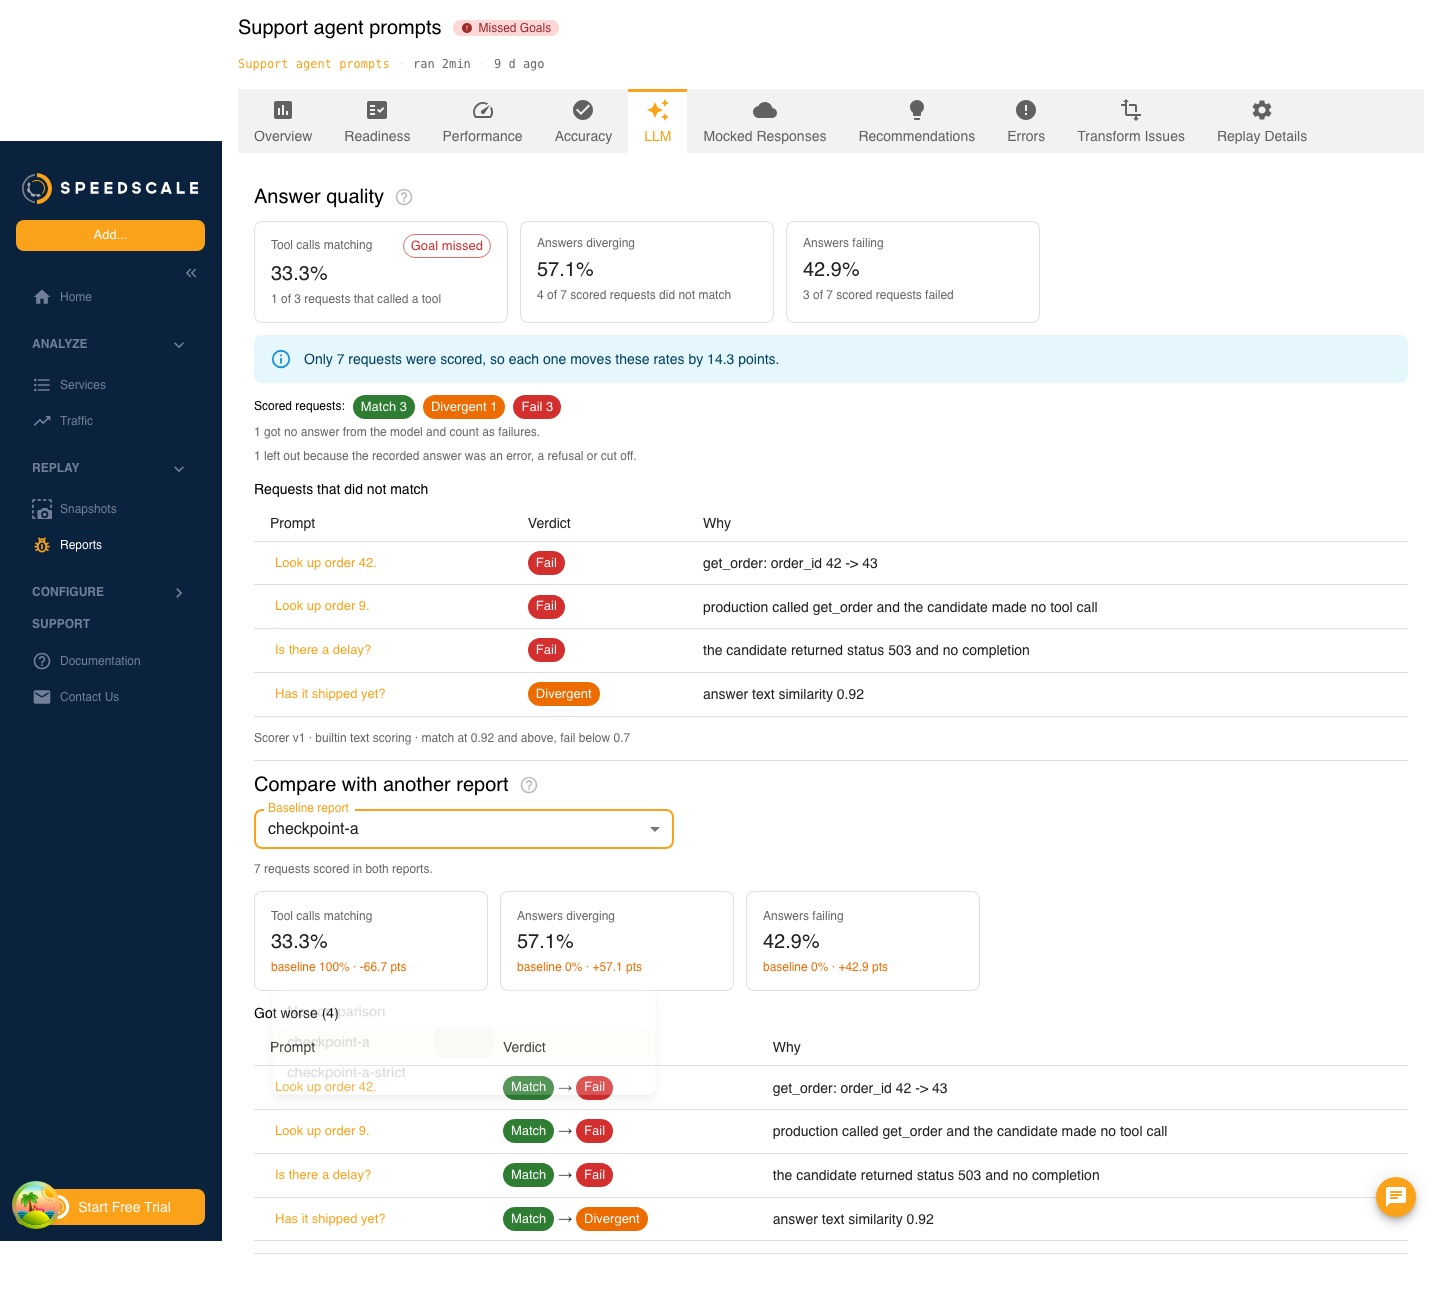
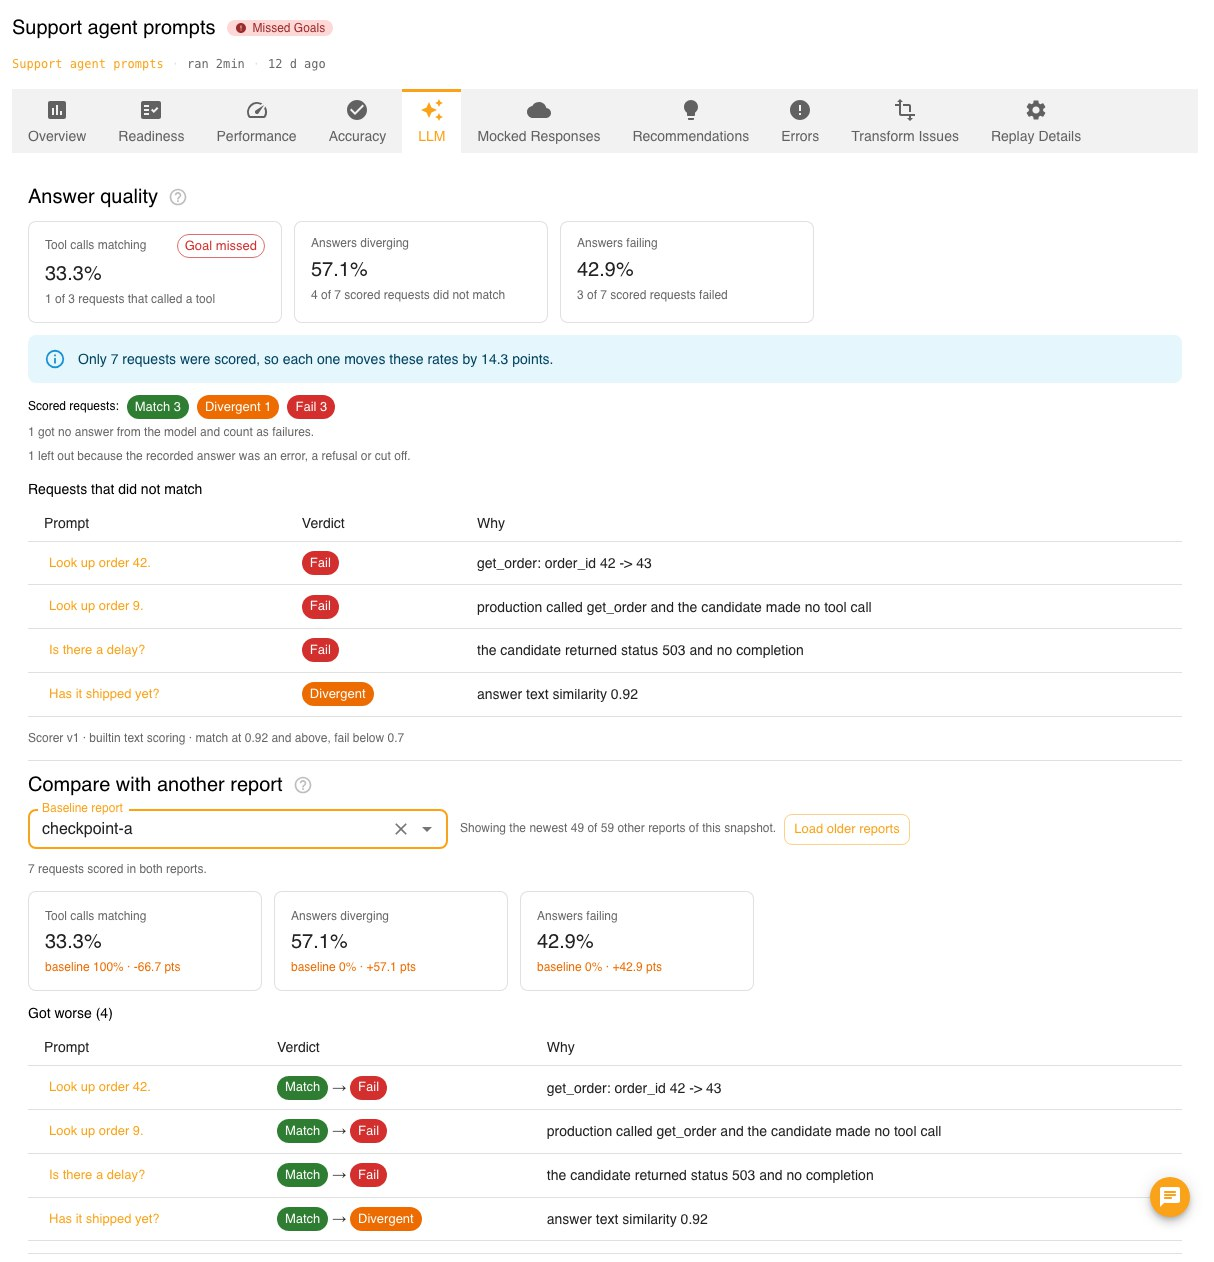
Show the answer dialog links and older-report loading in screenshots (S-14485)
The two LLM tab screenshots predate the follow-ups: they showed no links in the
answer dialog and no Load older reports control. Retake them from the dashboard
demo spec (dashboard!2325) and add one of the dialog for a single report with its
two links.

diff --git a/docs/proxymock/guides/llm-eval-gate.md b/docs/proxymock/guides/llm-eval-gate.md
@@ -388,7 +388,7 @@ A [cluster replay started from your kubeconfig](./cluster.md#replay) with no Spe
 
 A report whose replay sent LLM requests has an **LLM** tab. Its **Answer quality** section shows the three rates with the counts behind them, and says whether a goal on each rate was met.
 
-![The Answer quality section of a report, with a comparison against another report under it](./llm-quality-report.jpg)
+![The Answer quality section of a report, with a comparison against an older report of the same snapshot under it](./llm-quality-report.jpg)
 
 Below the rates:
 
@@ -400,6 +400,8 @@ Below the rates:
 Select a request's prompt to read the recorded answer beside the replayed one. Both are shown as the answer itself, with any tool calls and their arguments, so a streamed response and a whole one read the same. The difference that decided the verdict is called out above them.
 
 The answer dialog links to the full requests, and each link opens in a new tab. **Open the recorded request** opens that request in the snapshot's traffic. **Open the replayed request** opens the report's **Accuracy** tab with the exact request the answer was scored from open in the detail pane. For a report analyzed before this was available, or a request that got no response, it opens the list of requests that replayed the recorded one instead; reanalyze the report to get the direct link.
+
+![The answer dialog for one request, with links to the recorded request and to the replayed request](./llm-quality-answer-links.jpg)
 
 ### Compare two reports
 
@@ -417,7 +419,7 @@ Clear the field to stop comparing. With a baseline chosen, the section shows:
 
 Select a request in either list to read the recorded answer beside what each report's model answered. Each report's column has its own **Open the replayed request** link.
 
-![A request that got worse, with the recorded answer and both reports' answers](./llm-quality-answers.jpg)
+![A request that got worse, with the recorded answer, both reports' answers and a link to each request](./llm-quality-answers.jpg)
 
 This is the same comparison as [`proxymock replay score --baseline`](#compare-two-checkpoints). When the two reports were scored with different settings, the section says which setting differs and shows no change, because the difference would describe the scoring and not the models.
 
